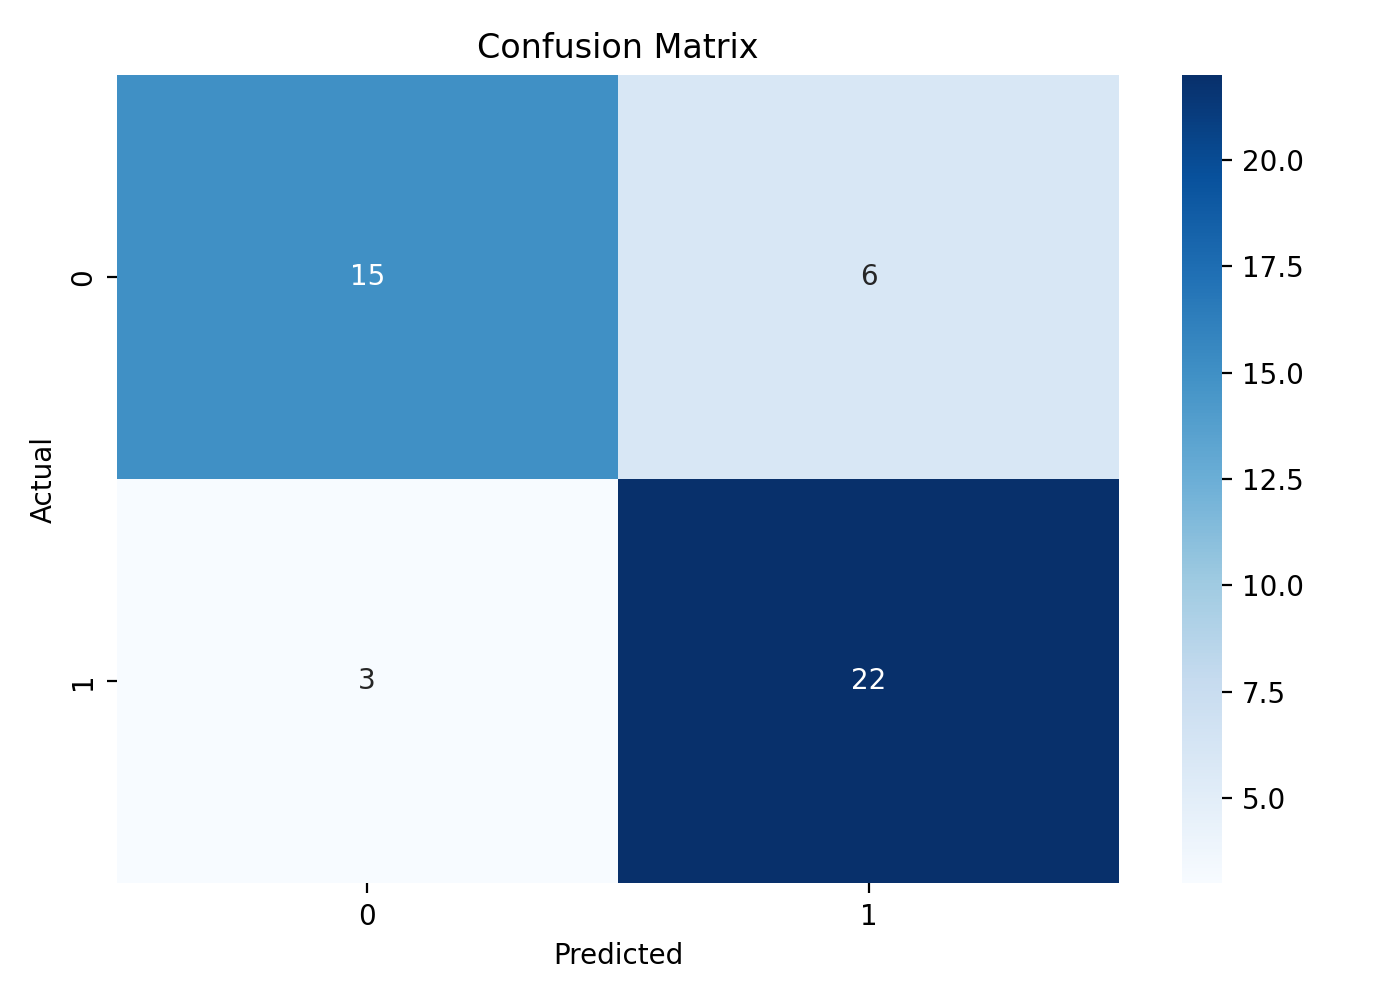
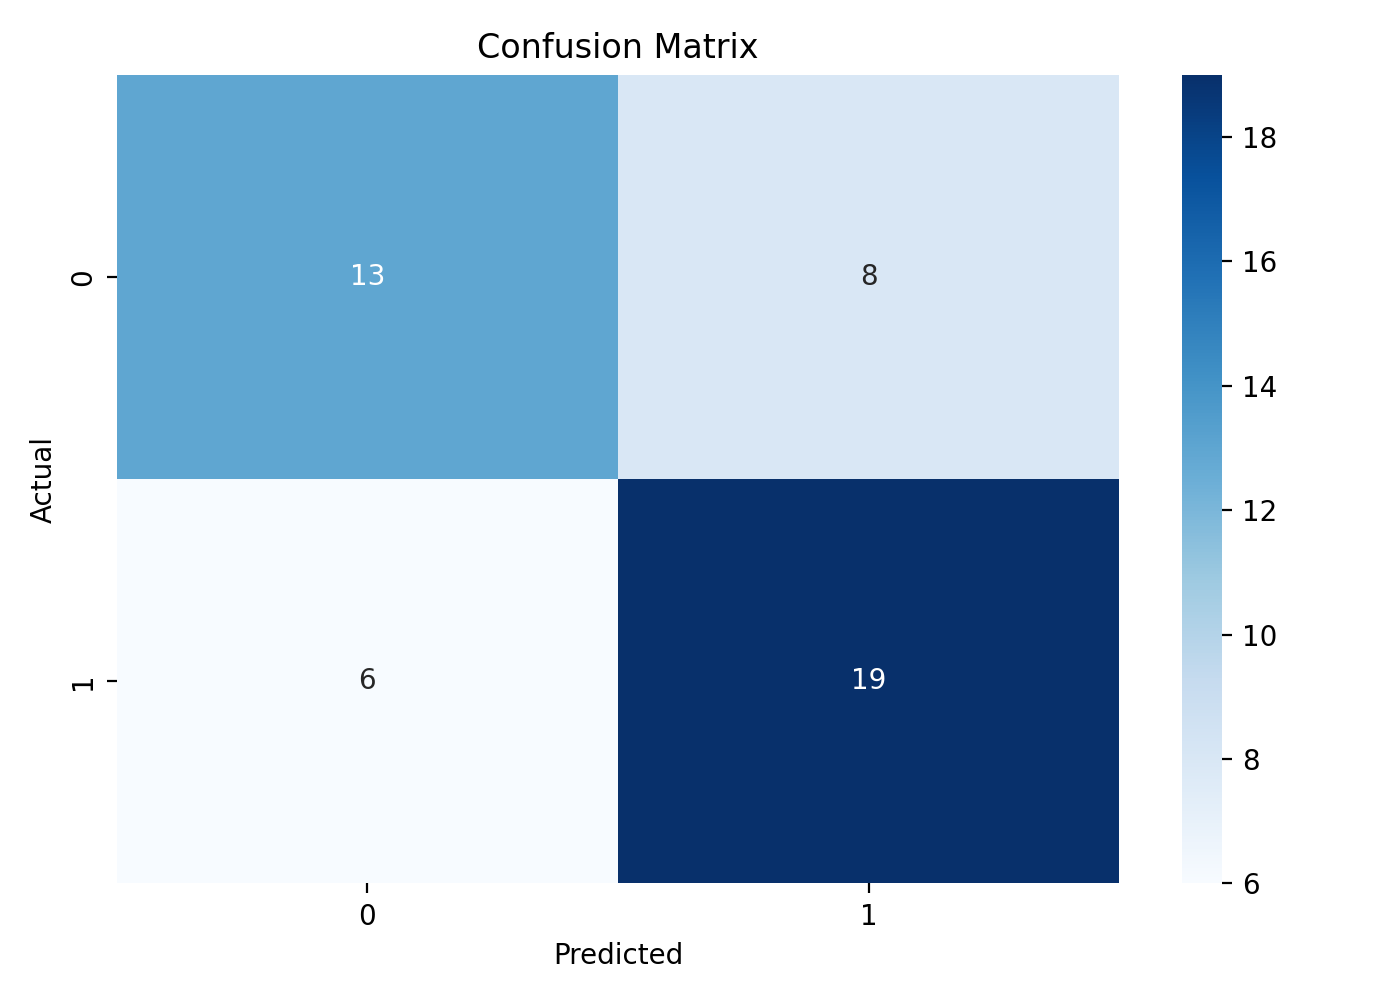
full work

diff --git a/data/models/plots/lime_explanation.html b/data/models/plots/lime_explanation.html
@@ -37089,25 +37089,25 @@
 /***/ })
 /******/ ]);
 //# sourceMappingURL=bundle.js.map </script></head><body>
-        <div class="lime top_div" id="top_divX5X3NLX5KL8B1NI"></div>
+        <div class="lime top_div" id="top_divAL51P6N6JJICU25"></div>
         
         <script>
-        var top_div = d3.select('#top_divX5X3NLX5KL8B1NI').classed('lime top_div', true);
+        var top_div = d3.select('#top_divAL51P6N6JJICU25').classed('lime top_div', true);
         
             var pp_div = top_div.append('div')
                                 .classed('lime predict_proba', true);
             var pp_svg = pp_div.append('svg').style('width', '100%');
-            var pp = new lime.PredictProba(pp_svg, ["0", "1"], [0.4754166007041931, 0.5245833992958069]);
+            var pp = new lime.PredictProba(pp_svg, ["0", "1"], [2.829341099186422e-07, 0.9999997615814209]);
             
         
         var exp_div;
             var exp = new lime.Explanation(["0", "1"]);
         
                 exp_div = top_div.append('div').classed('lime explanation', true);
-                exp.show([["chol > 269.00", -0.020822246369245272], ["152.00 < thalach <= 165.50", 0.015117032104347698], ["47.00 < age <= 55.00", 0.01110147096670047], ["trestbps <= 120.00", -0.0061449472819206435], ["1.00 < cp <= 2.00", 0.005489399881609309], ["fbs <= 0.00", -0.004502295012502774], ["exang <= 0.00", 0.004133731895588826], ["1.00 < slope <= 2.00", 0.003679226693599746], ["thal <= 2.00", -0.002945320102975538], ["sex <= 0.00", -0.0013311991907177185]], 1, exp_div);
+                exp.show([["chol > 269.00", -0.3594644206701826], ["152.00 < thalach <= 165.50", 0.30594622649942144], ["trestbps <= 120.00", 0.06498531339120917], ["47.00 < age <= 55.00", 0.036987286097748776], ["1.00 < slope <= 2.00", -0.029360939386395044], ["0.00 < oldpeak <= 0.80", 0.028834582475097115], ["ca <= 0.00", 0.021284752007905597], ["restecg <= 0.00", 0.012355842746805772], ["sex <= 0.00", -0.010281159206123379], ["fbs <= 0.00", -0.009845085508752188]], 1, exp_div);
                 
         var raw_div = top_div.append('div');
-            exp.show_raw_tabular([["chol", "295.00", -0.020822246369245272], ["thalach", "157.00", 0.015117032104347698], ["age", "51.00", 0.01110147096670047], ["trestbps", "120.00", -0.0061449472819206435], ["cp", "2.00", 0.005489399881609309], ["fbs", "0.00", -0.004502295012502774], ["exang", "0.00", 0.004133731895588826], ["slope", "2.00", 0.003679226693599746], ["thal", "2.00", -0.002945320102975538], ["sex", "0.00", -0.0013311991907177185]], 1, raw_div);
+            exp.show_raw_tabular([["chol", "295.00", -0.3594644206701826], ["thalach", "157.00", 0.30594622649942144], ["trestbps", "120.00", 0.06498531339120917], ["age", "51.00", 0.036987286097748776], ["slope", "2.00", -0.029360939386395044], ["oldpeak", "0.60", 0.028834582475097115], ["ca", "0.00", 0.021284752007905597], ["restecg", "0.00", 0.012355842746805772], ["sex", "0.00", -0.010281159206123379], ["fbs", "0.00", -0.009845085508752188]], 1, raw_div);
         
         </script>
         </body></html>

diff --git a/src/llm_generator.py b/src/llm_generator.py
@@ -4,7 +4,10 @@ import json
 import warnings
 from typing import Any, Dict, List, Optional
 
-import anthropic
+try:
+    import anthropic
+except Exception:  # pylint: disable=broad-except
+    anthropic = None
 
 try:
     import groq as groq_sdk
@@ -73,10 +76,11 @@ def generate_explanation(
     api_keys: Dict[str, str],
 ) -> str:
     """Generate natural-language explanation using Groq, Gemini, or Claude API."""
+    provider = (llm_provider or "groq").lower().strip()
     prompt = _build_prompt(xai_results, model_info, metrics)
 
     # \u2500\u2500 Groq (primary) \u2500\u2500\u2500\u2500\u2500\u2500\u2500\u2500\u2500\u2500\u2500\u2500\u2500\u2500\u2500\u2500\u2500\u2500\u2500\u2500\u2500\u2500\u2500\u2500\u2500\u2500\u2500\u2500\u2500\u2500\u2500\u2500\u2500\u2500\u2500\u2500\u2500
-    if llm_provider.lower() == "groq":
+    if provider == "groq":
         api_key = api_keys.get("groq_api_key", "")
         if not api_key or "YOUR_" in api_key:
             return "Groq API key not configured. Showing fallback report.\n\n" + _fallback_report(model_info, metrics, xai_results)
@@ -97,7 +101,7 @@ def generate_explanation(
             return "Groq call failed. Showing fallback report.\n\n" + _fallback_report(model_info, metrics, xai_results)
 
     # \u2500\u2500 Gemini \u2500\u2500\u2500\u2500\u2500\u2500\u2500\u2500\u2500\u2500\u2500\u2500\u2500\u2500\u2500\u2500\u2500\u2500\u2500\u2500\u2500\u2500\u2500\u2500\u2500\u2500\u2500\u2500\u2500\u2500\u2500\u2500\u2500\u2500\u2500\u2500\u2500\u2500\u2500\u2500
-    if llm_provider.lower() == "gemini":
+    if provider == "gemini":
         api_key = api_keys.get("gemini_api_key", "")
         if not api_key or "YOUR_" in api_key:
             return "Gemini API key not configured. Showing fallback report.\n\n" + _fallback_report(model_info, metrics, xai_results)
@@ -119,10 +123,12 @@ def generate_explanation(
             return "LLM call failed. Showing fallback report.\n\n" + _fallback_report(model_info, metrics, xai_results)
 
     # \u2500\u2500 Claude \u2500\u2500\u2500\u2500\u2500\u2500\u2500\u2500\u2500\u2500\u2500\u2500\u2500\u2500\u2500\u2500\u2500\u2500\u2500\u2500\u2500\u2500\u2500\u2500\u2500\u2500\u2500\u2500\u2500\u2500\u2500\u2500\u2500\u2500\u2500\u2500\u2500\u2500\u2500\u2500
-    if llm_provider.lower() == "claude":
+    if provider == "claude":
         api_key = api_keys.get("claude_api_key", "")
         if not api_key or "YOUR_" in api_key:
             return "Claude API key not configured. Showing fallback report.\n\n" + _fallback_report(model_info, metrics, xai_results)
+        if anthropic is None:
+            return "anthropic package not installed. Run: pip install anthropic\n\n" + _fallback_report(model_info, metrics, xai_results)
         try:
             client = anthropic.Anthropic(api_key=api_key)
             message = client.messages.create(
@@ -168,7 +174,9 @@ def _fallback_report(model_info: Dict[str, Any], metrics: Dict[str, Any], xai_re
 
 def _call_llm(prompt: str, llm_provider: str, api_keys: Dict[str, str]) -> str:
     """Dispatch a raw prompt to Gemini, Claude, or Groq and return the text response."""
-    if llm_provider.lower() == "groq":
+    provider = (llm_provider or "groq").lower().strip()
+
+    if provider == "groq":
         api_key = api_keys.get("groq_api_key", "")
         if not api_key or "YOUR_" in api_key:
             return ""
@@ -188,7 +196,7 @@ def _call_llm(prompt: str, llm_provider: str, api_keys: Dict[str, str]) -> str:
             LOGGER.exception("Groq API failed: %s", e)
         return ""
 
-    if llm_provider.lower() == "gemini":
+    if provider == "gemini":
         api_key = api_keys.get("gemini_api_key", "")
         if not api_key or "YOUR_" in api_key:
             return ""
@@ -208,9 +216,12 @@ def _call_llm(prompt: str, llm_provider: str, api_keys: Dict[str, str]) -> str:
             LOGGER.exception("Gemini API failed: %s", e)
         return ""
 
-    if llm_provider.lower() == "claude":
+    if provider == "claude":
         api_key = api_keys.get("claude_api_key", "")
         if not api_key or "YOUR_" in api_key:
+            return ""
+        if anthropic is None:
+            LOGGER.warning("anthropic package not installed. Run: pip install anthropic")
             return ""
         try:
             client = anthropic.Anthropic(api_key=api_key)

diff --git a/app.py b/app.py
@@ -344,7 +344,7 @@ if st.session_state.get("task_info") and st.button("Start Training", type="prima
                         suggestion = suggest_config_with_llm(
                             previous_results=prior,
                             meta_features=st.session_state.get("meta_features"),
-                            llm_provider=CONFIG["api"].get("use_llm", "gemini"),
+                            llm_provider=CONFIG["api"].get("use_llm", "groq"),
                             api_keys=CONFIG["api"],
                         )
                         st.session_state["llm_suggestion"] = suggestion
@@ -495,7 +495,7 @@ if st.session_state.get("xai_results") and st.session_state.get("test_metrics"):
                     ),
                 },
                 metrics=st.session_state["test_metrics"],
-                llm_provider=CONFIG["api"].get("use_llm", "gemini"),
+                llm_provider=CONFIG["api"].get("use_llm", "groq"),
                 api_keys=CONFIG["api"],
             )
             st.session_state["llm_report"] = report
@@ -548,7 +548,7 @@ if st.session_state.get("llm_report"):
                 answer = ask_llm_question(
                     question=user_q,
                     context=chat_context,
-                    llm_provider=CONFIG["api"].get("use_llm", "gemini"),
+                    llm_provider=CONFIG["api"].get("use_llm", "groq"),
                     api_keys=CONFIG["api"],
                 )
             st.markdown(answer)

diff --git a/README.md b/README.md
@@ -9,7 +9,8 @@ Production-ready Streamlit system to:
 5. Train multiple configs with Optuna + early stopping.
 6. Evaluate and select best model.
 7. Generate SHAP + LIME explainability artifacts.
-8. Generate natural-language findings with Gemini/Claude (or fallback report).
+8. Generate natural-language findings with Groq/Gemini/Claude (or fallback report).
+9. Train a FLAML baseline model alongside Optuna deep learning models.
 
 ## Project Structure
 
@@ -21,7 +22,8 @@ Production-ready Streamlit system to:
 - `src/model_selector.py`: architecture recommendations + config generation
 - `src/trainer.py`: Optuna training, best-model selection, evaluation
 - `src/explainer.py`: SHAP + LIME generation
-- `src/llm_generator.py`: Gemini/Claude report generation
+- `src/llm_generator.py`: Groq/Gemini/Claude report generation and interactive Q&A
+- `src/flaml_trainer.py`: FLAML baseline training for tabular datasets
 - `src/utils.py`: logging, plotting, utility helpers
 - `app.py`: Streamlit UI workflow
 - `config.yaml`: API/training/paths configuration
@@ -38,8 +40,9 @@ Production-ready Streamlit system to:
    - `pip install -r requirements.txt`
 3. Update API keys in `config.yaml`:
    - `api.claude_api_key`
+   - `api.groq_api_key`
    - `api.gemini_api_key`
-   - `api.use_llm` (`gemini` or `claude`)
+   - `api.use_llm` (`groq`, `gemini`, or `claude`)
 
 ## Run
 
